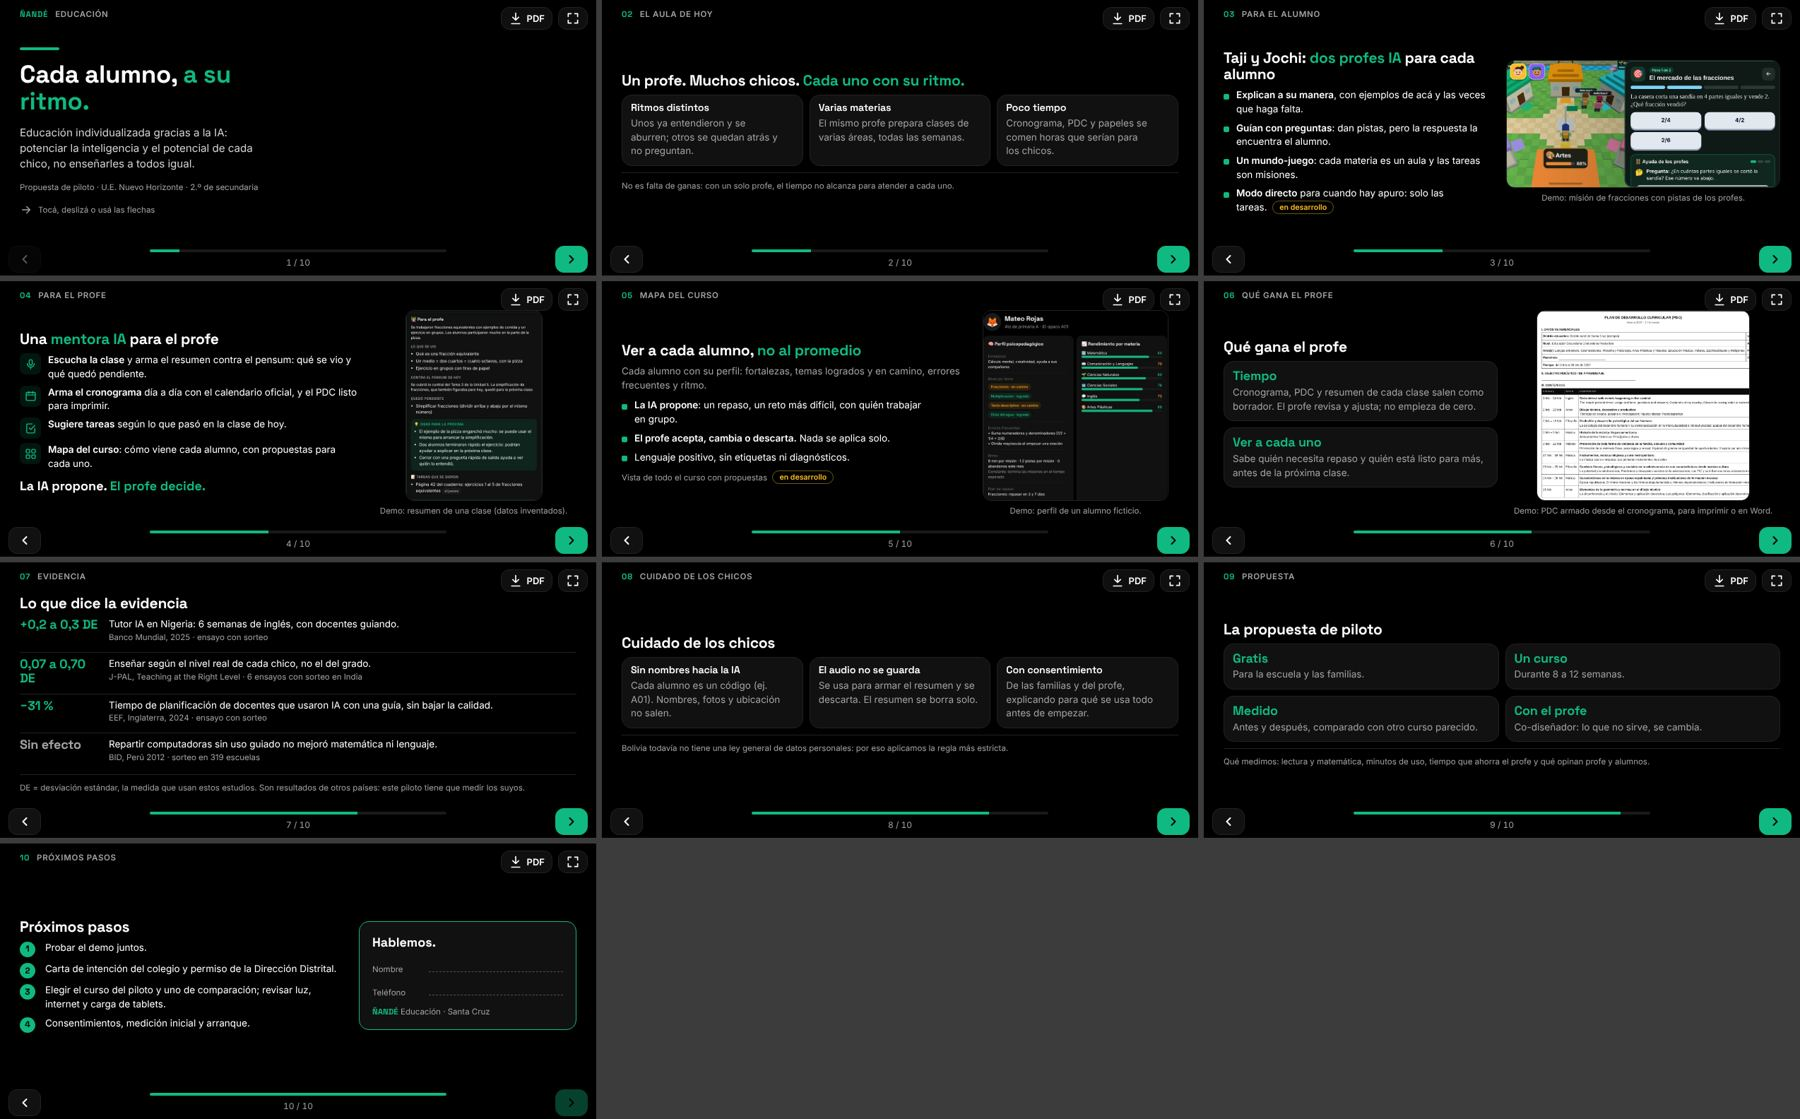
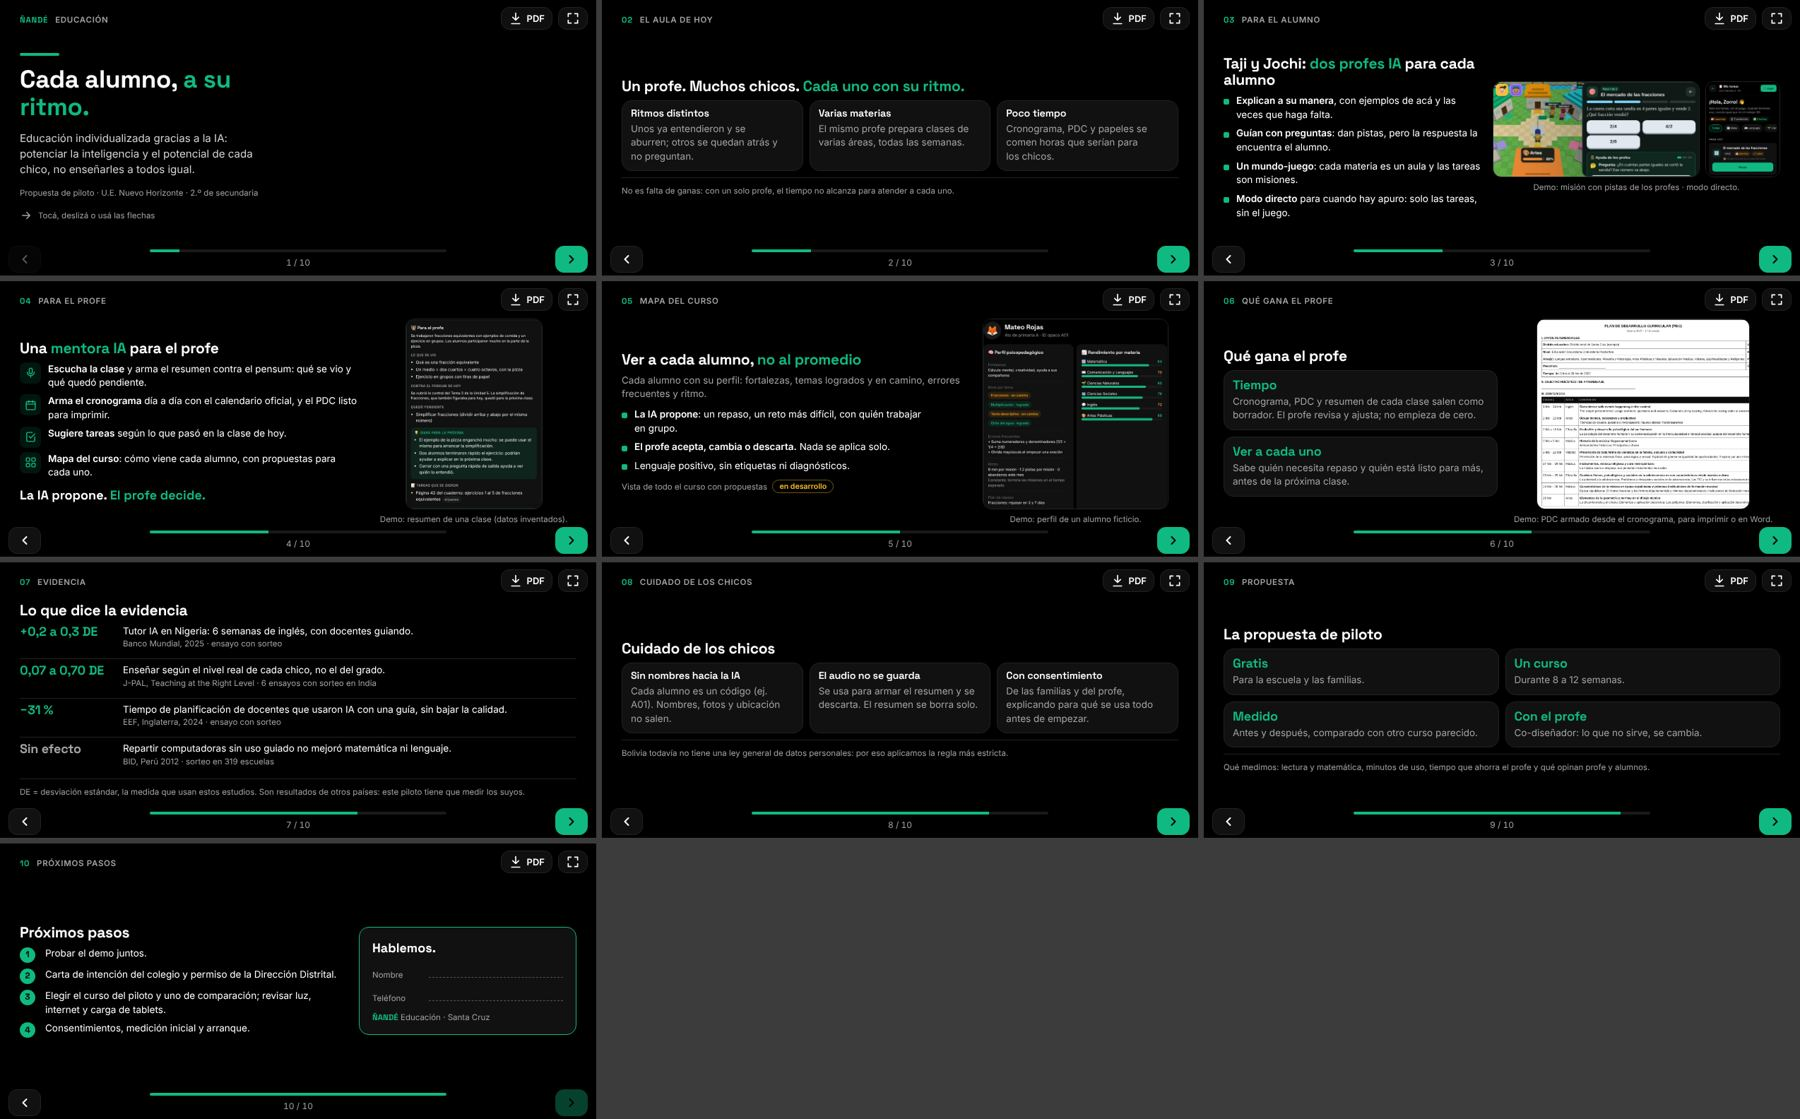
EDU.14 — Lámina 3 con captura real del modo directo (EDU.06d)
Claude-Session: https://claude.ai/code/session_01Jdt98c2PQNpQHHMW92gX8n

diff --git a/educacion/presentacion/index.html b/educacion/presentacion/index.html
@@ -54,6 +54,11 @@ figure { min-width: 0; display: flex; flex-direction: column; gap: 6px; align-it
 figure img { display: block; max-width: 100%; max-height: var(--img-alto); width: auto; height: auto;
   border-radius: 12px; border: 1px solid var(--borde); background: var(--sup); }
 figcaption { font-size: var(--chico); color: var(--sec); text-align: center; }
+/* Dos capturas a la misma altura (juego 1200x555 + tareas 468x606) */
+.par { display: flex; gap: 8px; align-items: flex-start; width: min(100%, calc(var(--img-alto) * 2.93 + 8px)); }
+.par img { min-width: 0; width: 0; max-height: none; }
+.par img:nth-child(1) { flex: 2.162 1 0; }
+.par img:nth-child(2) { flex: .772 1 0; }
 
 /* Listas con viñeta verde */
 .lista { list-style: none; display: flex; flex-direction: column; gap: calc(var(--gap) * .8); }
@@ -127,6 +132,7 @@ figcaption { font-size: var(--chico); color: var(--sec); text-align: center; }
   :root { --f: 13.5px; --chico: 11.5px; --h1: 28px; --h2: 21px; --grande: 18px; --pad-x: 28px; --pad-y: 12px; --gap: 9px; --barra: 46px; --img-alto: calc(100vh - 120px); }
   .dos { grid-template-columns: 1fr 1fr; }
   .dos.img-chica { grid-template-columns: 1.25fr .75fr; }
+  .dos.img-grande { grid-template-columns: .95fr 1.05fr; }
   .tarjetas { grid-template-columns: repeat(3, 1fr); }
   .tarjetas.t4 { grid-template-columns: repeat(2, 1fr); }
   .tarjeta { padding: 10px 12px; }
@@ -147,6 +153,7 @@ figcaption { font-size: var(--chico); color: var(--sec); text-align: center; }
     --barra: 68px; --radio: 18px; --img-alto: 62vh; }
   .dos { grid-template-columns: 1fr 1.1fr; gap: 4vw; }
   .dos.img-chica { grid-template-columns: 1.2fr .8fr; }
+  .dos.img-grande { grid-template-columns: .85fr 1.15fr; gap: 3vw; }
   .tarjetas { grid-template-columns: repeat(3, 1fr); }
   .tarjetas.t4 { grid-template-columns: repeat(4, 1fr); }
   .tarjeta { padding: clamp(16px, 1.6vw, 30px); gap: 8px; }
@@ -171,6 +178,7 @@ figcaption { font-size: var(--chico); color: var(--sec); text-align: center; }
   .lam:last-child { break-after: auto; page-break-after: auto; }
   .dos { grid-template-columns: 1fr 1.1fr; gap: 50px; }
   .dos.img-chica { grid-template-columns: 1.2fr .8fr; }
+  .dos.img-grande { grid-template-columns: .85fr 1.15fr; gap: 36px; }
   .tarjetas { grid-template-columns: repeat(3, 1fr); }
   .tarjetas.t4 { grid-template-columns: repeat(4, 1fr); }
   .ev { grid-template-columns: 220px 1fr; gap: 24px; padding: 10px 0; }
@@ -212,17 +220,17 @@ figcaption { font-size: var(--chico); color: var(--sec); text-align: center; }
   <!-- 3 · Para el alumno -->
   <section class="lam" aria-label="Lámina 3">
     <div class="marca"><b>03</b> Para el alumno</div>
-    <div class="cuerpo dos">
+    <div class="cuerpo dos img-grande">
       <div class="texto">
         <h2>Taji y Jochi: <span class="verde">dos profes IA</span> para cada alumno</h2>
         <ul class="lista">
           <li><b>Explican a su manera</b>, con ejemplos de acá y las veces que haga falta.</li>
           <li><b>Guían con preguntas</b>: dan pistas, pero la respuesta la encuentra el alumno.</li>
           <li><b>Un mundo-juego</b>: cada materia es un aula y las tareas son misiones.</li>
-          <li><b>Modo directo</b> para cuando hay apuro: solo las tareas. <span class="etiqueta">en desarrollo</span></li>
+          <li><b>Modo directo</b> para cuando hay apuro: solo las tareas, sin el juego.</li>
         </ul>
       </div>
-      <figure><img src="img/alumno-pregunta.jpg" alt="El juego del alumno: una misión de fracciones con la ayuda de los profes" width="1200" height="555"><figcaption>Demo: misión de fracciones con pistas de los profes.</figcaption></figure>
+      <figure><div class="par"><img src="img/alumno-pregunta.jpg" alt="El juego del alumno: una misión de fracciones con la ayuda de los profes" width="1200" height="555"><img src="img/alumno-tareas.jpg" alt="Modo directo: la lista de tareas del alumno" width="468" height="606"></div><figcaption>Demo: misión con pistas de los profes · modo directo.</figcaption></figure>
     </div>
   </section>
 

diff --git a/docs/sesiones/EDU.14-presentacion.md b/docs/sesiones/EDU.14-presentacion.md
@@ -26,7 +26,7 @@ horizontal), PC y proyector, y se descarga en PDF.
 
 1. Cada alumno, a su ritmo — educación individualizada gracias a la IA.
 2. El aula de hoy — un profe, muchos chicos, ritmos distintos, poco tiempo.
-3. Para el alumno — Taji y Jochi, preguntas en vez de respuestas, mundo-juego, modo directo (en desarrollo).
+3. Para el alumno — Taji y Jochi, preguntas en vez de respuestas, mundo-juego, modo directo (captura real de EDU.06d).
 4. Para el profe — mentora IA: clase → resumen, cronograma + PDC, tareas, mapa del curso. La IA propone, el profe decide.
 5. Mapa del curso — perfil de cada alumno, propuestas que el profe acepta o cambia (vista del curso en desarrollo).
 6. Qué gana el profe — tiempo y ver a cada uno.
@@ -46,6 +46,9 @@ ni debajo de los botones. PDF de 10 páginas. Capturas en `docs/sesiones/captura
 
 - **Nigeria**: los documentos del repo dan +0,23 DE (educacion-piloto) y +0,3 DE (mentor-del-profesor).
   La lámina dice "+0,2 a 0,3 DE" para no exagerar. Verificar en el informe del Banco Mundial.
-- "Modo directo" del alumno y "mapa del curso" con propuestas: no existen todavía en el demo
-  (están marcados "en desarrollo"). Candidatos a sub-sesión si el profe los valora.
+- **Mapa del curso** (EDU.04f): sigue marcado "en desarrollo" en la lámina 5. Cuando se publique,
+  reemplazar `img/profe-perfil.jpg` por la captura real y borrar la línea con la etiqueta.
+- Las capturas son archivos sueltos en `educacion/presentacion/img/`: se cambian sin tocar el HTML
+  (mismo nombre; si cambia la proporción, ajustar `width`/`height` del `<img>`).
+- `img/alumno-tareas.jpg` sale de la rama `sesion/pantalla-edu-06d` (modo directo).
 - La foto del juego es una captura guardada (EDU.02c); el demo en vivo usa 4.º de primaria de ejemplo.
